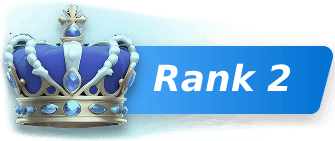
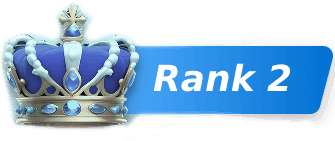
finished race card change

Changed region(s): [[0.0, 0.0, 0.597, 0.3404], [0.0, 0.7376, 0.9254, 1.0]]

diff --git a/src/Components/FinishedRaceCard.jsx b/src/Components/FinishedRaceCard.jsx
@@ -20,7 +20,9 @@ import RaceTile from '../Components/RaceTile'
 import { getStocksDataForRace } from '../Utils/api'
 import { DarkModeContext } from '../Contexts/DarkModeProvider'
 import { getRaceList } from '../Utils/api'
-
+import Crown_1 from '../assets/images/Crown_1.png'
+import Crown_2 from '../assets/images/Crown_2.png'
+import Crown_3 from '../assets/images/Crown_3.png'
 import malePlceholder from '../assets/images/manPlaceholder.jpg'
 import femalePlceholder from '../assets/images/womanPlaceholder.jpg'
 
@@ -37,7 +39,7 @@ const FinishedRaceCard = ({
     const [raceList, setRaceList] = useState()
     const navigate = useNavigate()
 
-    console.log("checking here",raceData?.participants?.[0]?.photo?.path)
+    console.log("checking here", raceData?.participants?.[0]?.photo?.path)
 
 
     return (
@@ -62,91 +64,27 @@ const FinishedRaceCard = ({
                     <img src={darkModeEnabled ? linedark : line_beside_medals} alt="" />
                 </div>
 
-                <div className='w-full flex justify-center items-center'>
-                    {/* <div className='relative aspect-square p-[22px]'>
-                    <img src={person2} alt="silver medal position" />
-                    <img src={silver_crown} alt="1st position person" />
-                    <p >Nik</p>
-                </div> */}
+                <div className='w-full flex justify-center items-center gap-[25px]'>
 
-                    <div
-                        onClick={(e) => {
-                            e.stopPropagation()
-                            if (!raceData?.stocks[1]?.participants[0]?.user) return
-                            navigate(`/userprofile/${raceData?.stocks[1]?.participants[0]?.user?.id}`)
-                        }}
-                        title={raceData?.stocks[1]?.participants[0]?.user && (raceData?.stocks[1]?.participants[0]?.user.firstName + " " + raceData?.stocks[1]?.participants[0]?.user.lastName)}
-                        className='relative aspect-square p-[10px] scale-90 z-[5] flex justify-center item-center flex-col'>
-                        <div className='relative flex justify-center items-center'>
-                            {/* {raceData?.stocks[1]?.participants[0]?.user?.photo?.path && <img className='absolute z-[-1] w-[50%] rounded-[50%]' src={raceData?.stocks[1]?.participants[0]?.user?.photo?.path} />}
-                            {!raceData?.stocks[1]?.participants[0]?.user?.photo?.path && <img className='absolute z-[-1] w-[50%] rounded-[50%]' src={placeholder} />} */}
-                            <img 
-                                className='absolute z-[-1] w-[50%] rounded-[50%]' 
-                                src={raceData?.participants?.[1]?.photo?.path 
-                                        || (raceData?.participants?.[1]?.gender === 'female' ? femalePlceholder : malePlceholder)} 
-                                />
-
-                            <img className='w-full h-full object-cover w-[100px]' src={silver_crown} alt="1st position person" />
-                        </div>
-                        {/* <p className='relative  text-center font-semibold text-[12px] dark:text-white'>{rankList[0].user_name}</p> */}
+                    <div style={{ position: 'relative' }}>  <img
+                        className='ongoing-users'
+                        src={raceData?.participants?.[0]?.photo?.path
+                            || (raceData?.participants?.[0]?.gender === 'female' ? femalePlceholder : malePlceholder)}
+                    />
+                        <img className='ongoing-rank' src={Crown_1} />
                     </div>
-
-                    <div
-                        onClick={(e) => {
-                            e.stopPropagation()
-                            if (!raceData?.stocks[0]?.participants[0]?.user) return
-                            navigate(`/userprofile/${raceData?.stocks[0]?.participants[0]?.user?.id}`)
-                        }}
-                        title={raceData?.stocks[0]?.participants[0]?.user && (raceData?.stocks[0]?.participants[0]?.user.firstName + " " + raceData?.stocks[0]?.participants[0]?.user.lastName)}
-                        className='relative aspect-square p-[10px] z-[5] flex justify-center item-center flex-col'>
-                        <div className='relative flex justify-center items-center'>
-                            {/* {raceData?.stocks[0]?.participants[0]?.user?.photo?.path && <img className='absolute z-[-1] w-[50%] rounded-[50%]' src={raceData?.stocks[0]?.participants[0]?.user?.photo?.path} />}
-                            {!raceData?.stocks[0]?.participants[0]?.user?.photo?.path && <img className='absolute z-[-1] w-[50%] rounded-[50%]' src={placeholder} />} */}
-                            {/* {raceData?.participants?.[0].photo?.path} */}
-                            <img 
-                                className='absolute z-[-1] w-[50%] rounded-[50%]' 
-                                src={raceData?.participants?.[0]?.photo?.path 
-                                        || (raceData?.participants?.[0]?.gender === 'female' ? femalePlceholder : malePlceholder)} 
-                                />
-
-                            <img className='w-full h-full object-cover w-[110px]' src={gold_crown} alt="1st position person" />
-                        </div>
-                        {/* <p className='relative text-center font-semibold text-[12px] dark:text-white'>{rankList[1].user_name}</p> */}
-                    </div>
-
-                    <div
-                        onClick={(e) => {
-                            e.stopPropagation()
-                            if (!raceData?.stocks[2]?.participants[0]?.user) return
-                            navigate(`/userprofile/${raceData?.stocks[2]?.participants[0]?.user?.id}`)
-                        }}
-                        title={raceData?.stocks[2]?.participants[0]?.user && (raceData?.stocks[2]?.participants[0]?.user.firstName + " " + raceData?.stocks[2]?.participants[0]?.user.lastName)}
-                        className='relative aspect-square p-[10px] scale-90 z-[5] flex justify-center item-center flex-col'>
-                        <div className='relative flex justify-center items-center'>
-                            {/* {raceData?.stocks[2]?.participants[0]?.user?.photo?.path && <img className='absolute z-[-1] w-[50%] rounded-[50%]' src={raceData?.stocks[2]?.participants[0]?.user?.photo?.path} />}
-                            {!raceData?.stocks[2]?.participants[0]?.user?.photo?.path && <img className='absolute z-[-1] w-[50%] rounded-[50%]' src={placeholder} />} */}
-                            <img 
-                                className='absolute z-[-1] w-[50%] rounded-[50%] mt-[0.55rem]' 
-                                src={raceData?.participants?.[2]?.photo?.path 
-                                        || (raceData?.participants?.[2]?.gender === 'female' ? femalePlceholder : malePlceholder)} 
-                                />
-
-                            <img className='w-full h-full object-cover w-[100px]' src={bronze_corwn} alt="1st position person" />
-                        </div>
-                        
-                        {/* <p className='relative  text-center font-semibold text-[12px] dark:text-white'>{rankList[2].user_name}</p> */}
-                    </div>
-
-                    {/* <div className='relative aspect-square p-[22px]'>
-                    <img src={person2} alt="bronze medal position" />
-                    <img src={bronze_corwn} alt="1st position person" />
-                    <p>dave</p>
-                </div> */}
-
-                    {/* absolute elements */}
-                    <div className='absolute right-0 top-1/2'>
-                        <img src={darkModeEnabled ? linedark : line_beside_medals} alt="" />
-                    </div>
+                    <div style={{ position: 'relative' }}><img
+                        className='ongoing-users'
+                        src={raceData?.participants?.[1]?.photo?.path
+                            || (raceData?.participants?.[1]?.gender === 'female' ? femalePlceholder : malePlceholder)}
+                    />
+                        <img className='ongoing-rank' src={Crown_2} /></div>
+                    <div style={{ position: 'relative' }}> <img
+                        className='ongoing-users'
+                        src={raceData?.participants?.[2]?.photo?.path
+                            || (raceData?.participants?.[2]?.gender === 'female' ? femalePlceholder : malePlceholder)}
+                    />
+                        <img className='ongoing-rank' src={Crown_3} /></div>
                 </div>
             </div>
 
